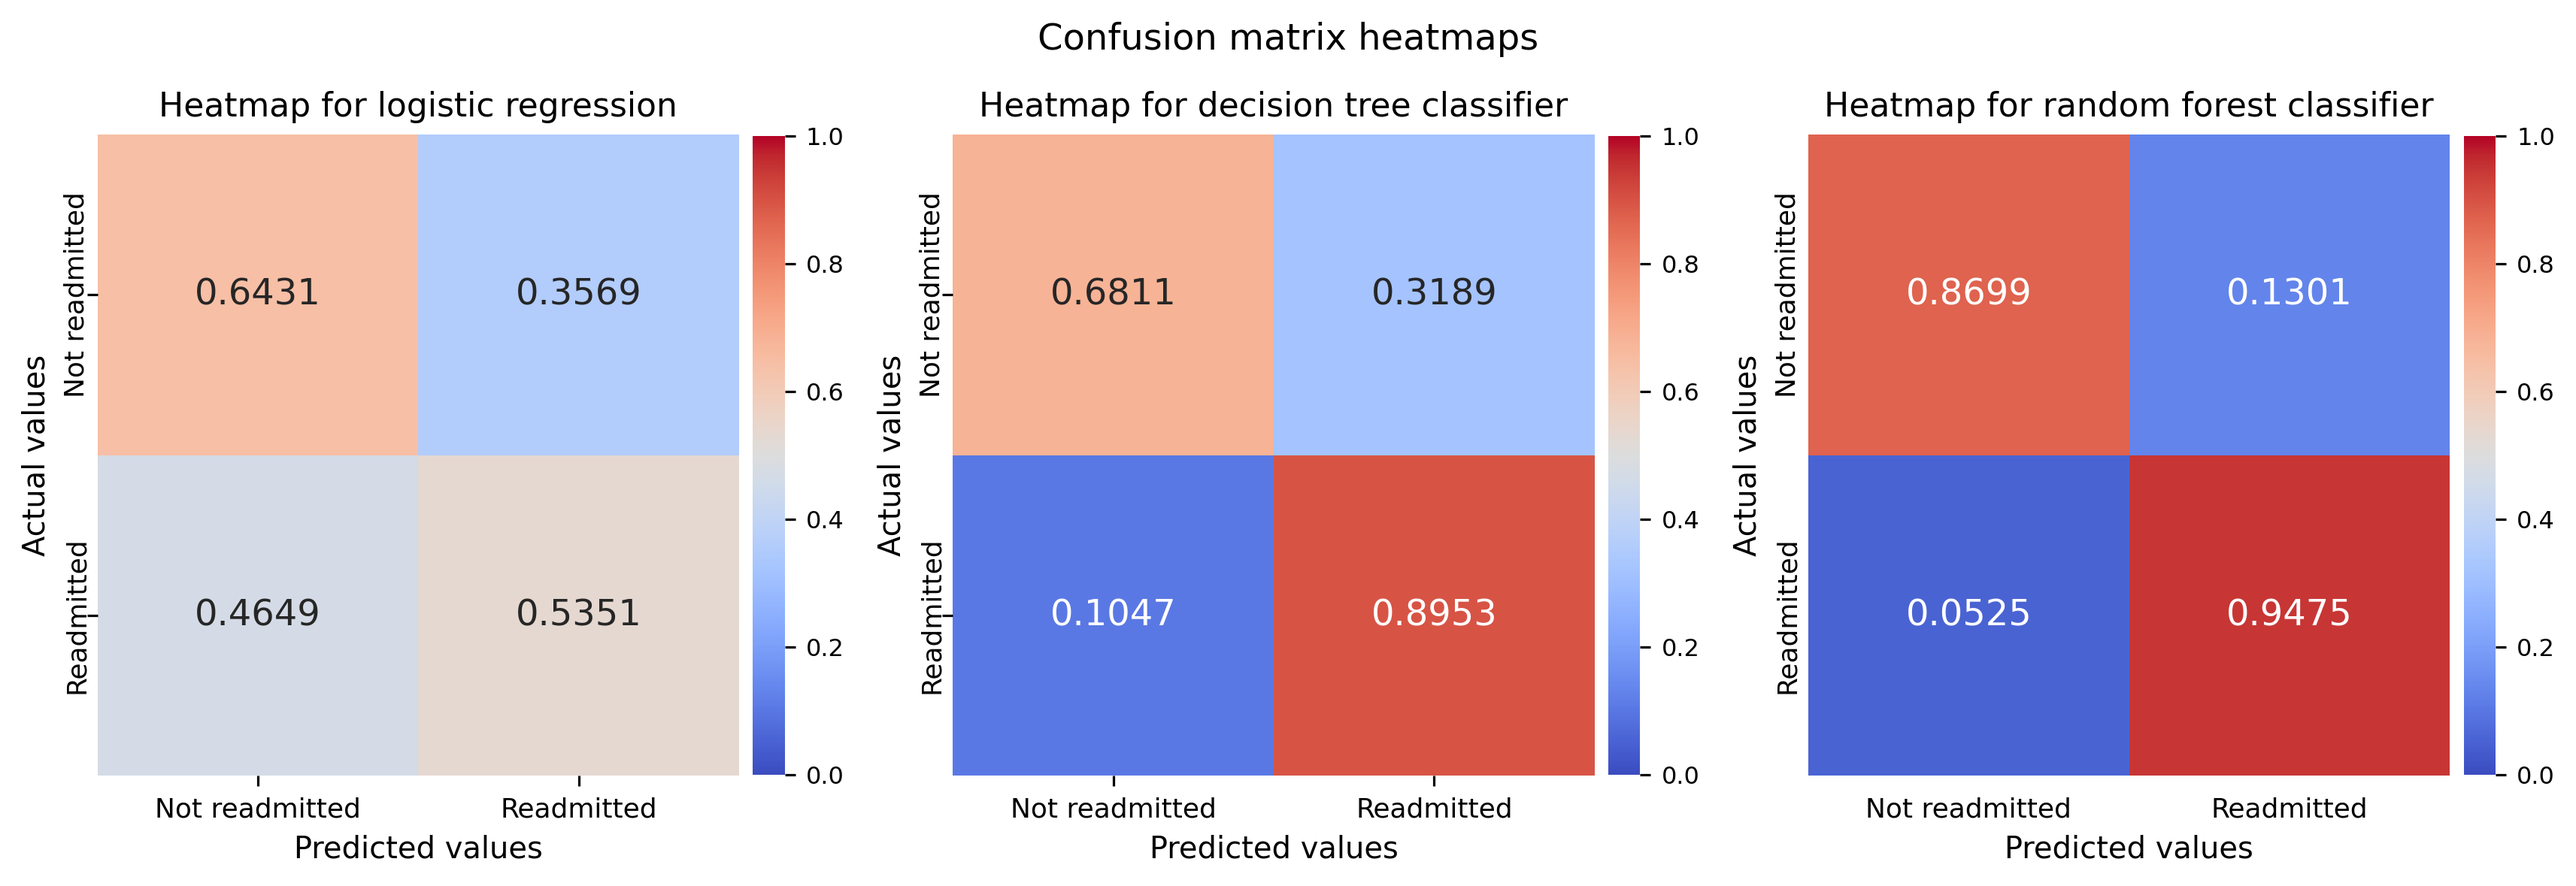
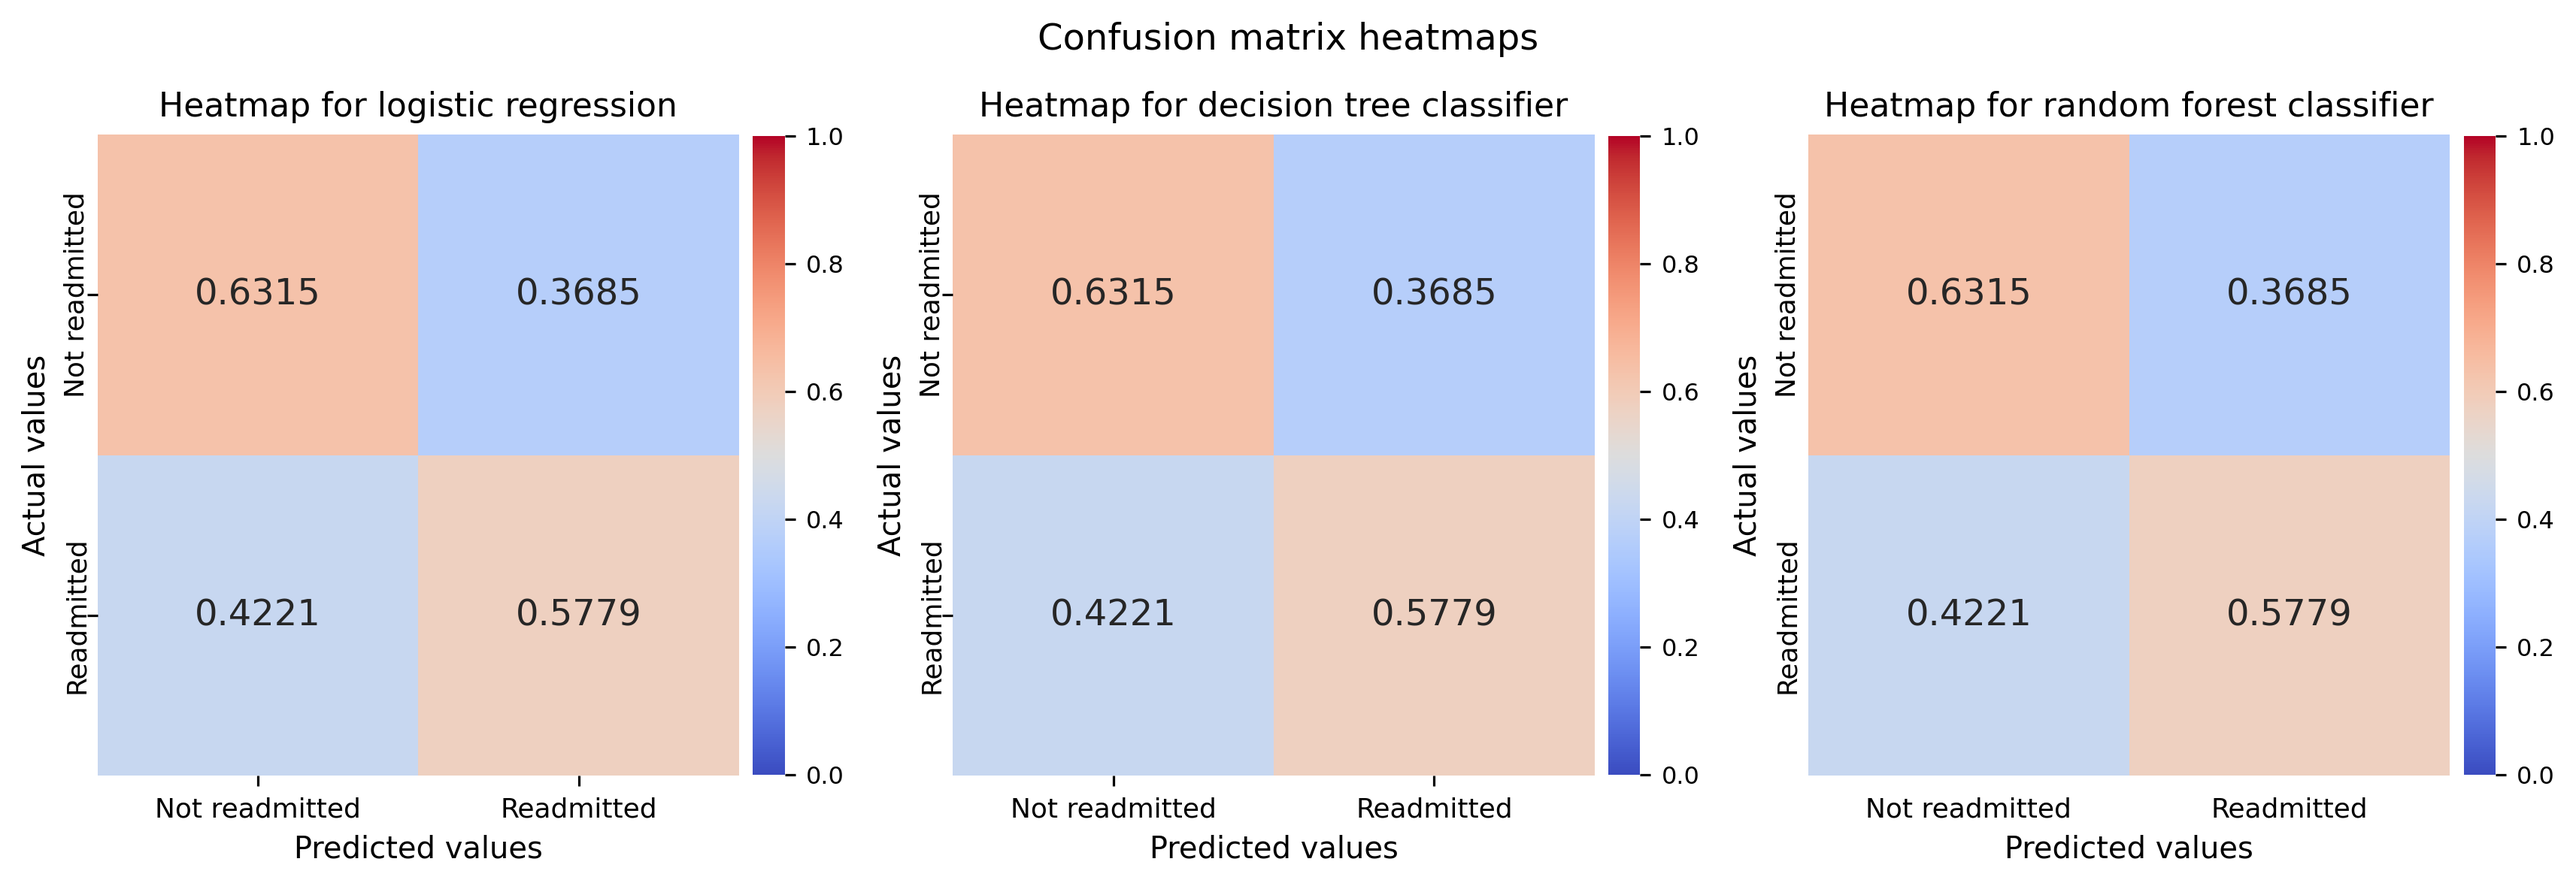
Confusion matrix and ROC plots use undersampled majority-class dataset

diff --git a/modeling.py b/modeling.py
@@ -128,9 +128,9 @@ with open(work_dir / "stats_output.txt", "w") as f:
             f"\n\n"
         )
     f.writelines("\n")
-    ros = RandomUnderSampler(sampling_strategy="majority",
+    rus = RandomUnderSampler(sampling_strategy="majority",
                              random_state=0)
-    X_train_resampled, y_train_resampled = ros.fit_resample(X_train_pp,
+    X_train_resampled, y_train_resampled = rus.fit_resample(X_train_pp,
                                                             y_train)
     clf = model.fit(X_train_resampled, y_train_resampled)
     print("Calculating confusion matrix...")
